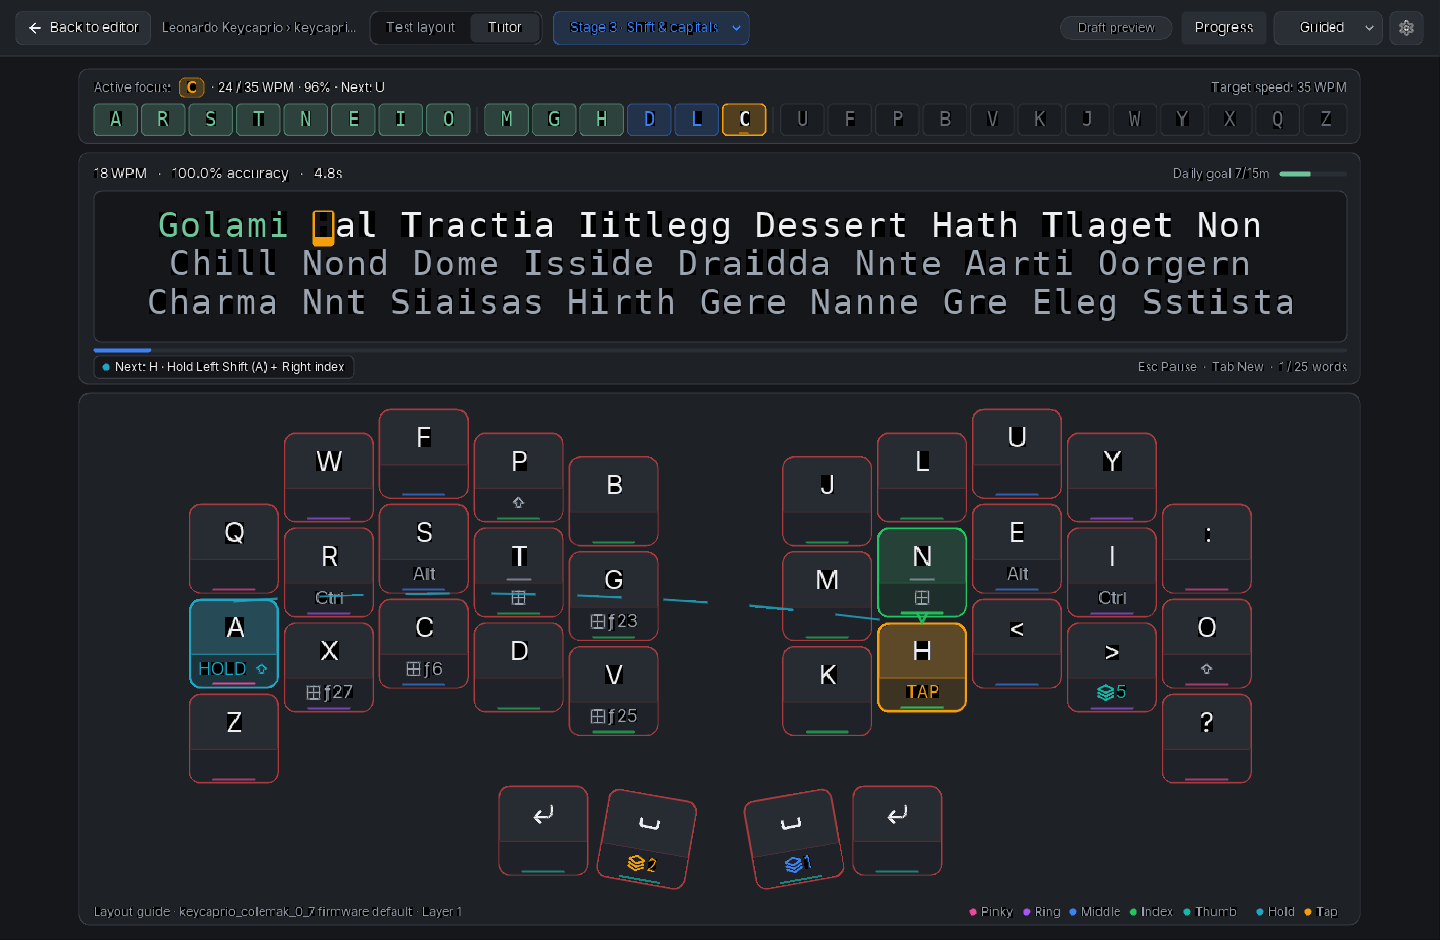
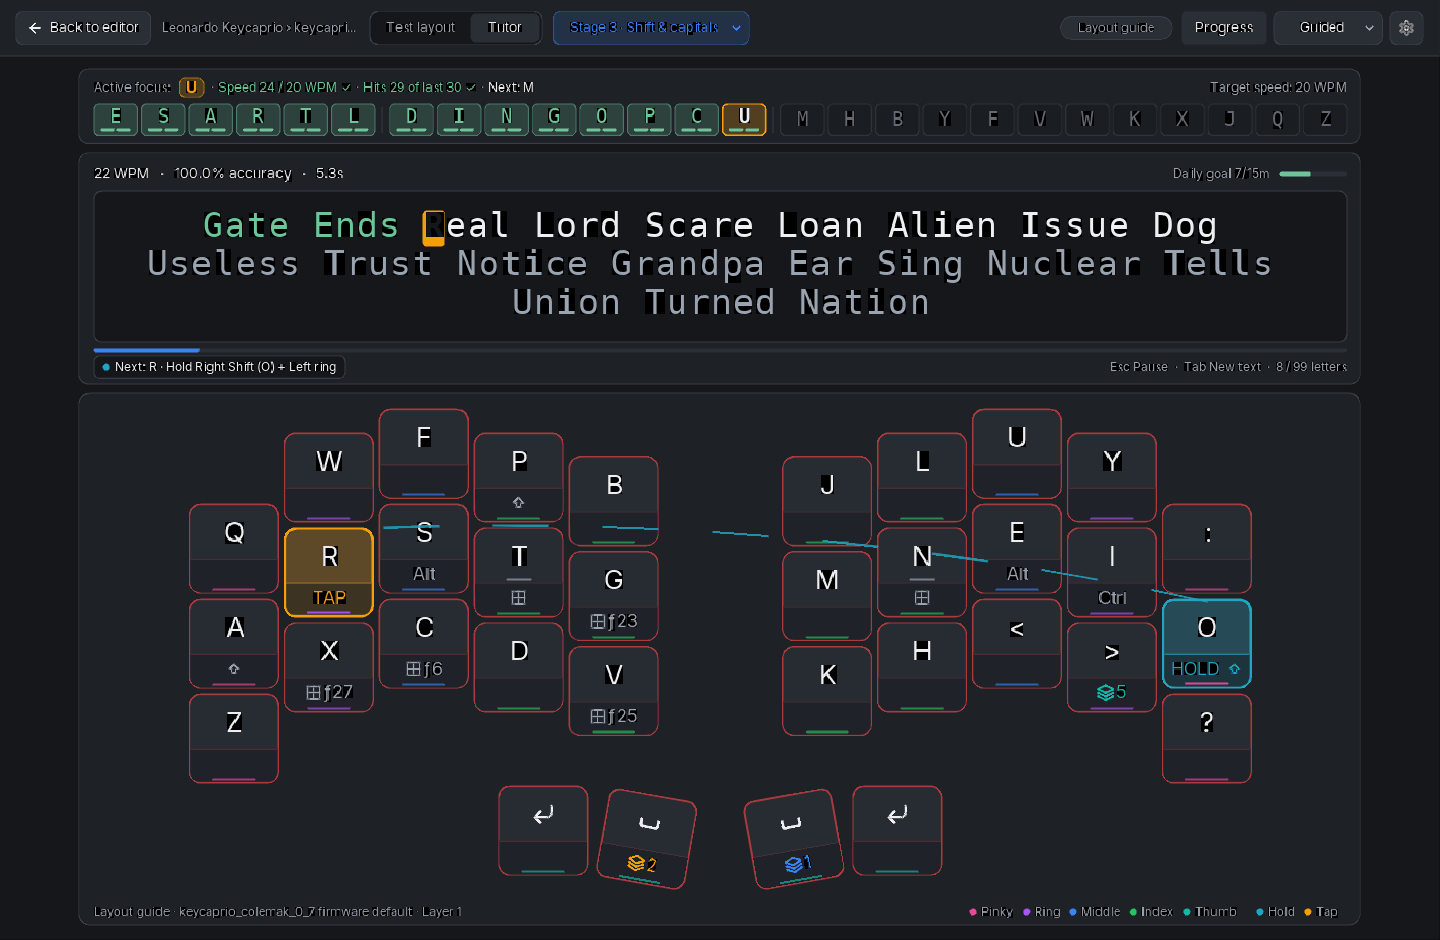
Regenerate the Tutor documentation screenshots with a build step
zig build doc-screenshots -Ddesktop renders the Tutor gallery and turns
its dark scenes into the PNGs of docs/typing-practice.md and the root
README, so they show the current Tutor. The rundown screenshot is
replaced by the next lesson right after a finished one.

diff --git a/companion/docs/typing-practice.md b/companion/docs/typing-practice.md
@@ -83,6 +83,8 @@ as short notices that fade after three seconds. Every fifth lesson of Stages 1
 and 2 is built around your slowest letter pair, marked **Weak spot** in the
 metrics row.
 
+![The next lesson right after a finished one: last lesson in the metrics row, keys coloured by how they went, and the New letter and green-key notices](screenshots/typing-practice/next-lesson.png)
+
 ### 6-Stage Learning Path
 
 Click the **Stage** pill in the top bar to open the **Stages** sheet. All six
@@ -252,6 +254,14 @@ that progress never moves backwards and that saved progress reloads unchanged.
 
 ```sh
 zig build test-tutor-learner
+```
+
+The screenshots in this document and the Tutor screenshot of the root README
+are the dark scenes of that gallery. Regenerate them whenever the Tutor's look
+changes, so they never show an older version:
+
+```sh
+zig build doc-screenshots -Ddesktop
 ```
 
 To render native GPU screenshots of the same 19-scene Dark/Light gallery into
